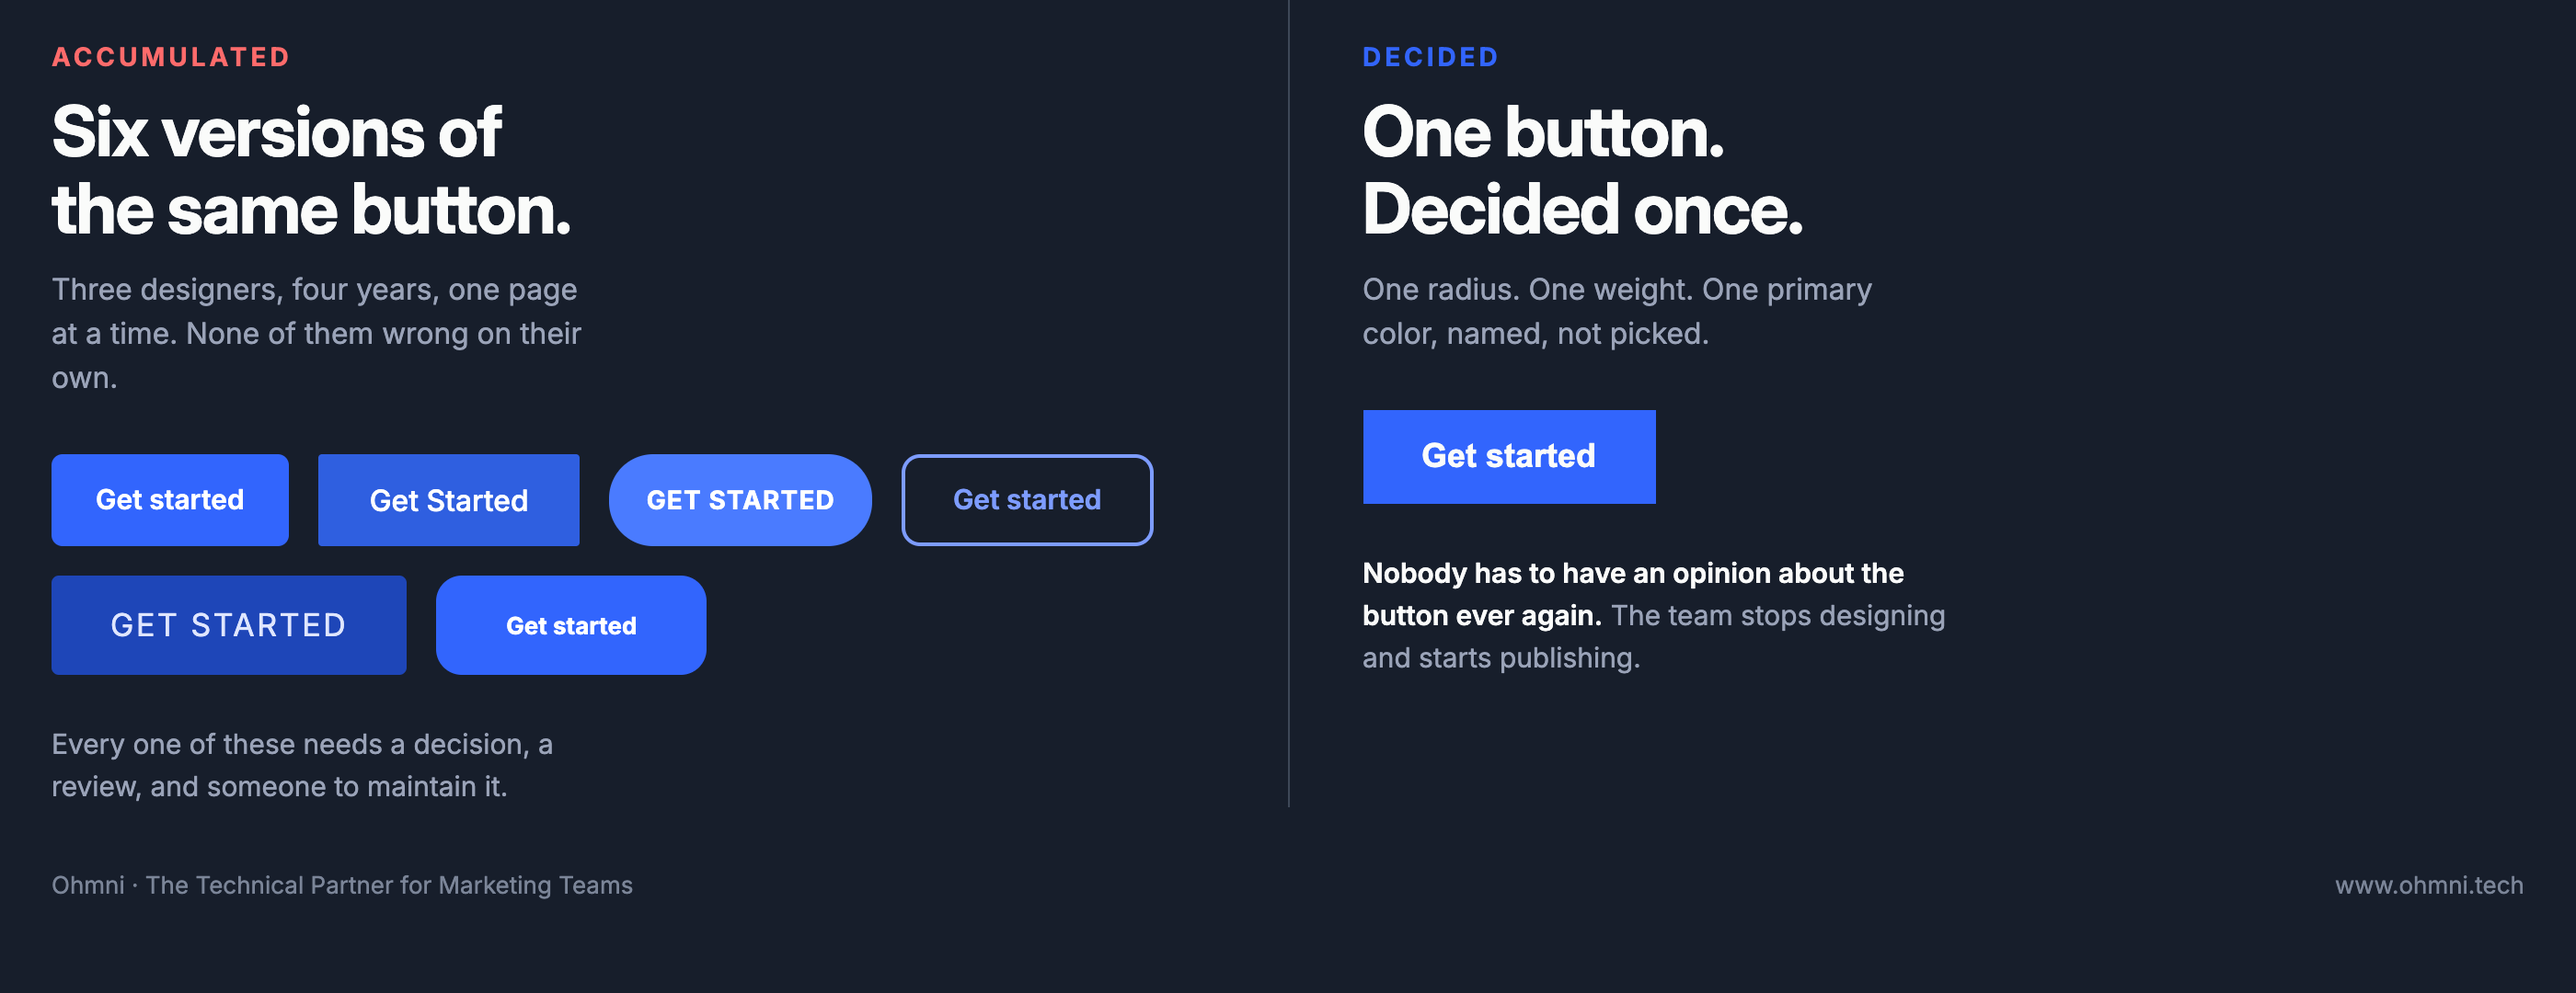
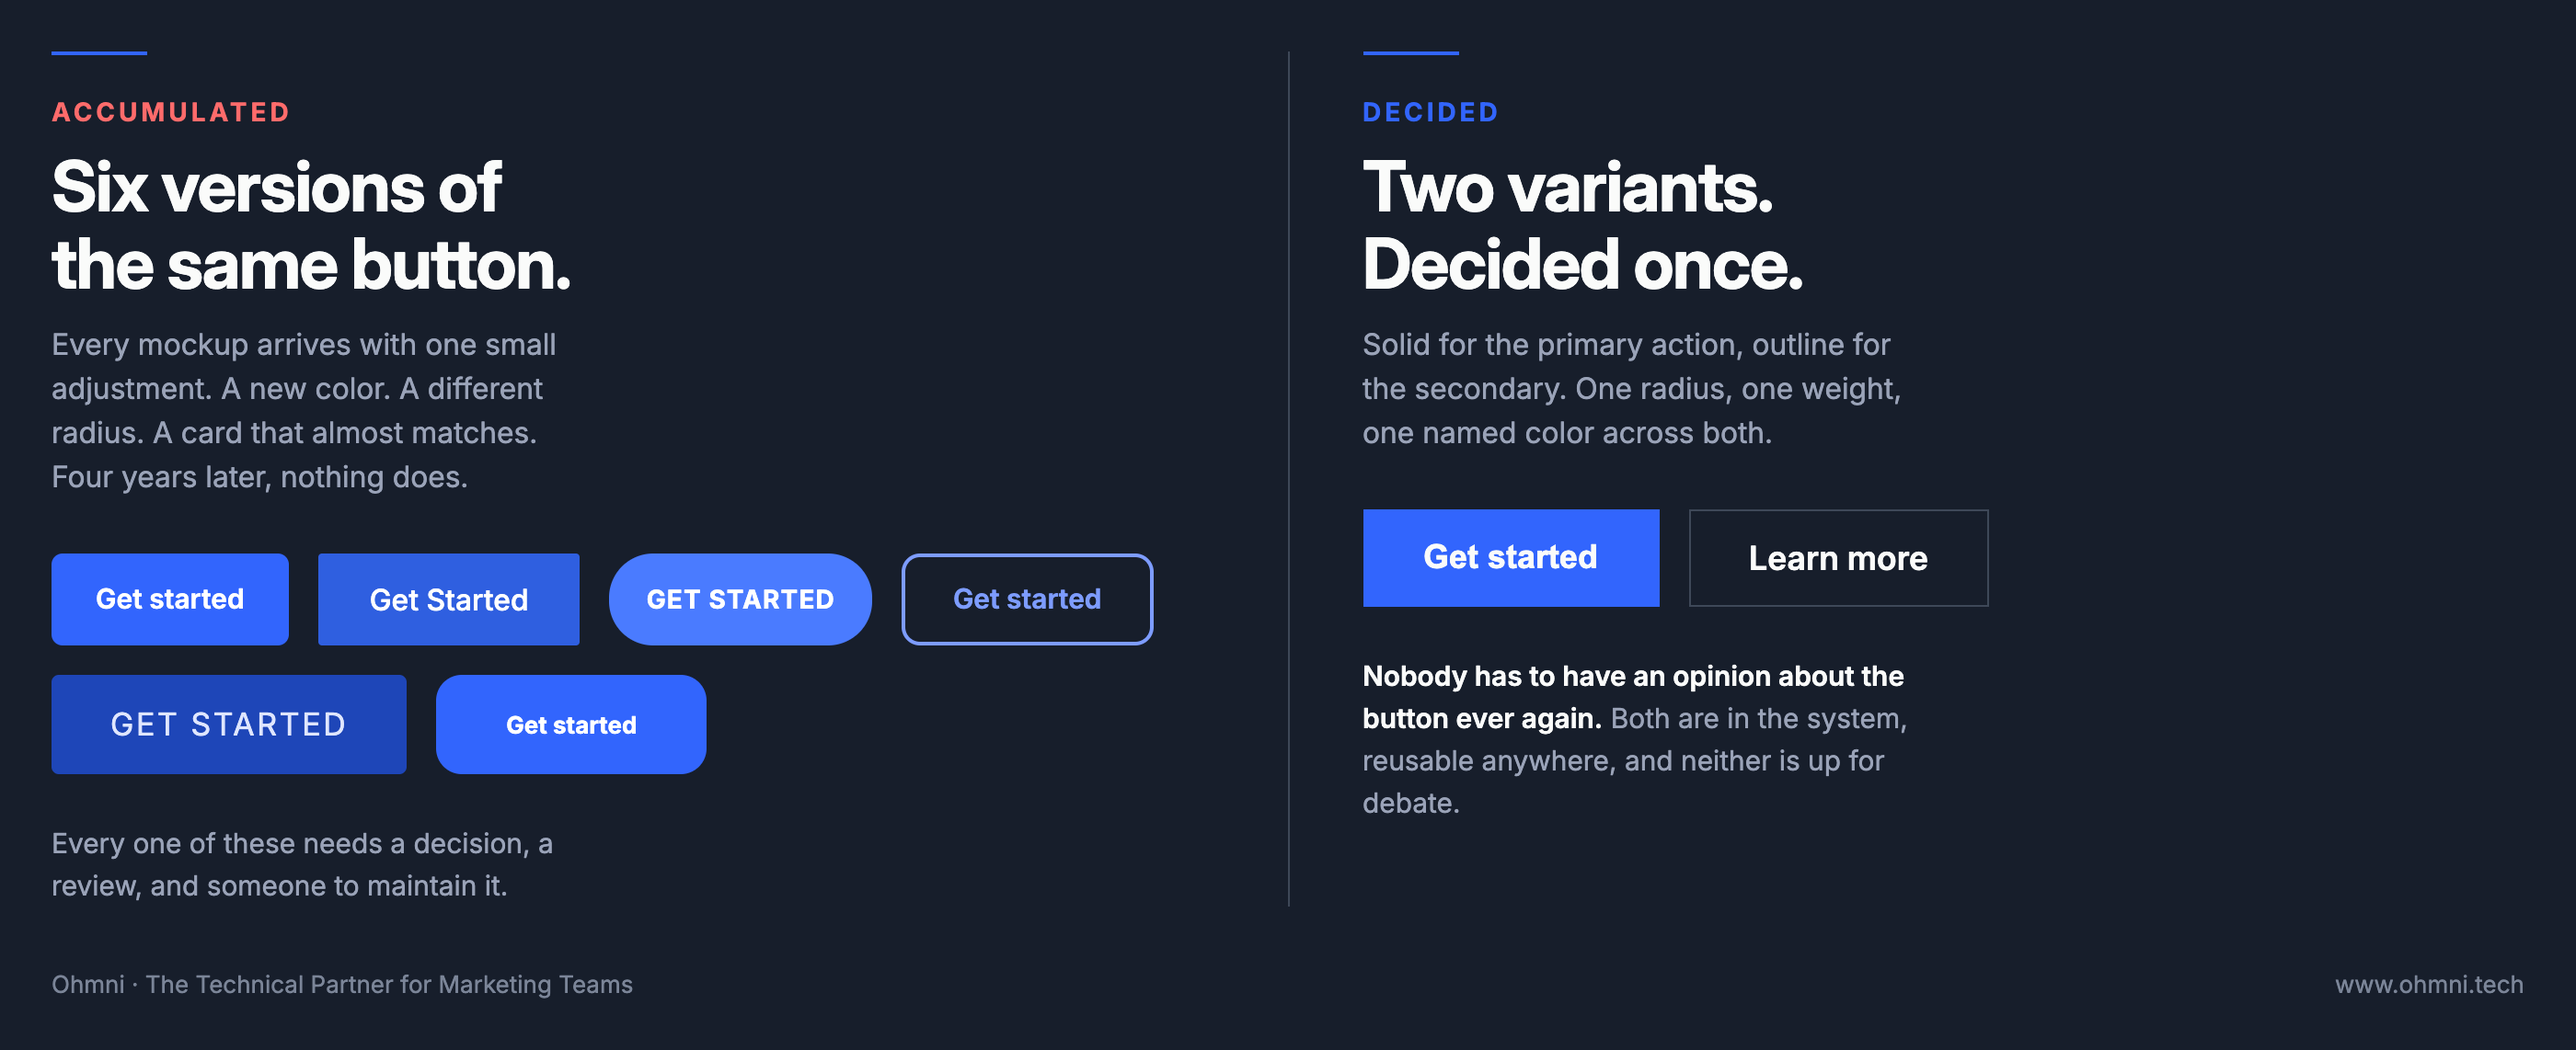
Article graphic: two system variants, even padding
Right panel now shows the two variants a real system ships, solid and outline,
rather than a single button: closer to what the design dictionary actually
contains and to the story in the post. Left panel copy now describes what
repeated tweaking does over time instead of just naming the cause.

Capture uses the document height so the baked in padding is even on all four
sides; the previous crop left extra space at the bottom. Prior version kept as
design-creep-v1-six-vs-one.png.

diff --git a/components/post-single/index.tsx b/components/post-single/index.tsx
@@ -61,7 +61,7 @@ export default function PostSingle({ post, defaultCta }: PostSingleProps) {
           <div className="content items-center">
             {category ? <small className="post-eyebrow">{category}</small> : null}
             <h1 className="text-balance">{title || "Untitled Post"}</h1>
-            {excerpt ? <p className="text-pretty">{excerpt}</p> : null}
+            {excerpt ? <p className="text-balance">{excerpt}</p> : null}
           </div>
 
           {authorName || dateLine ? (
